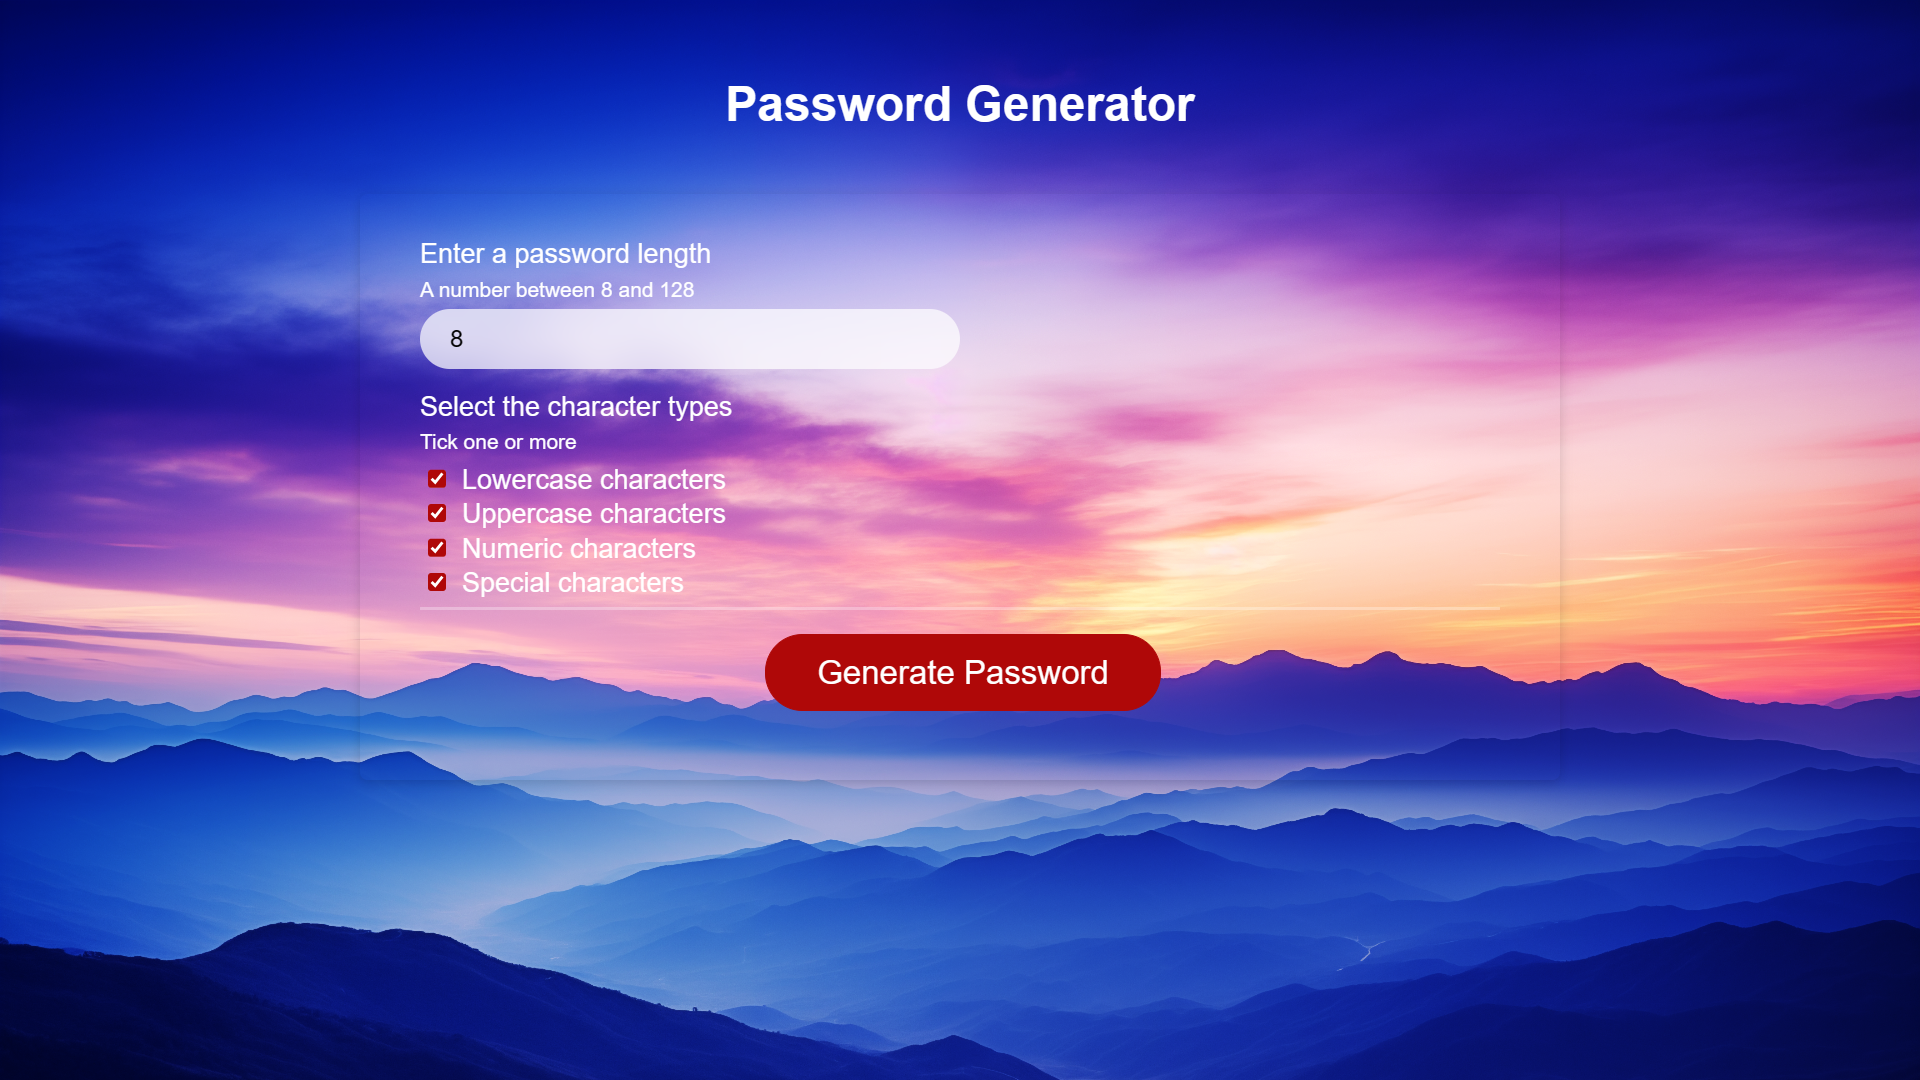
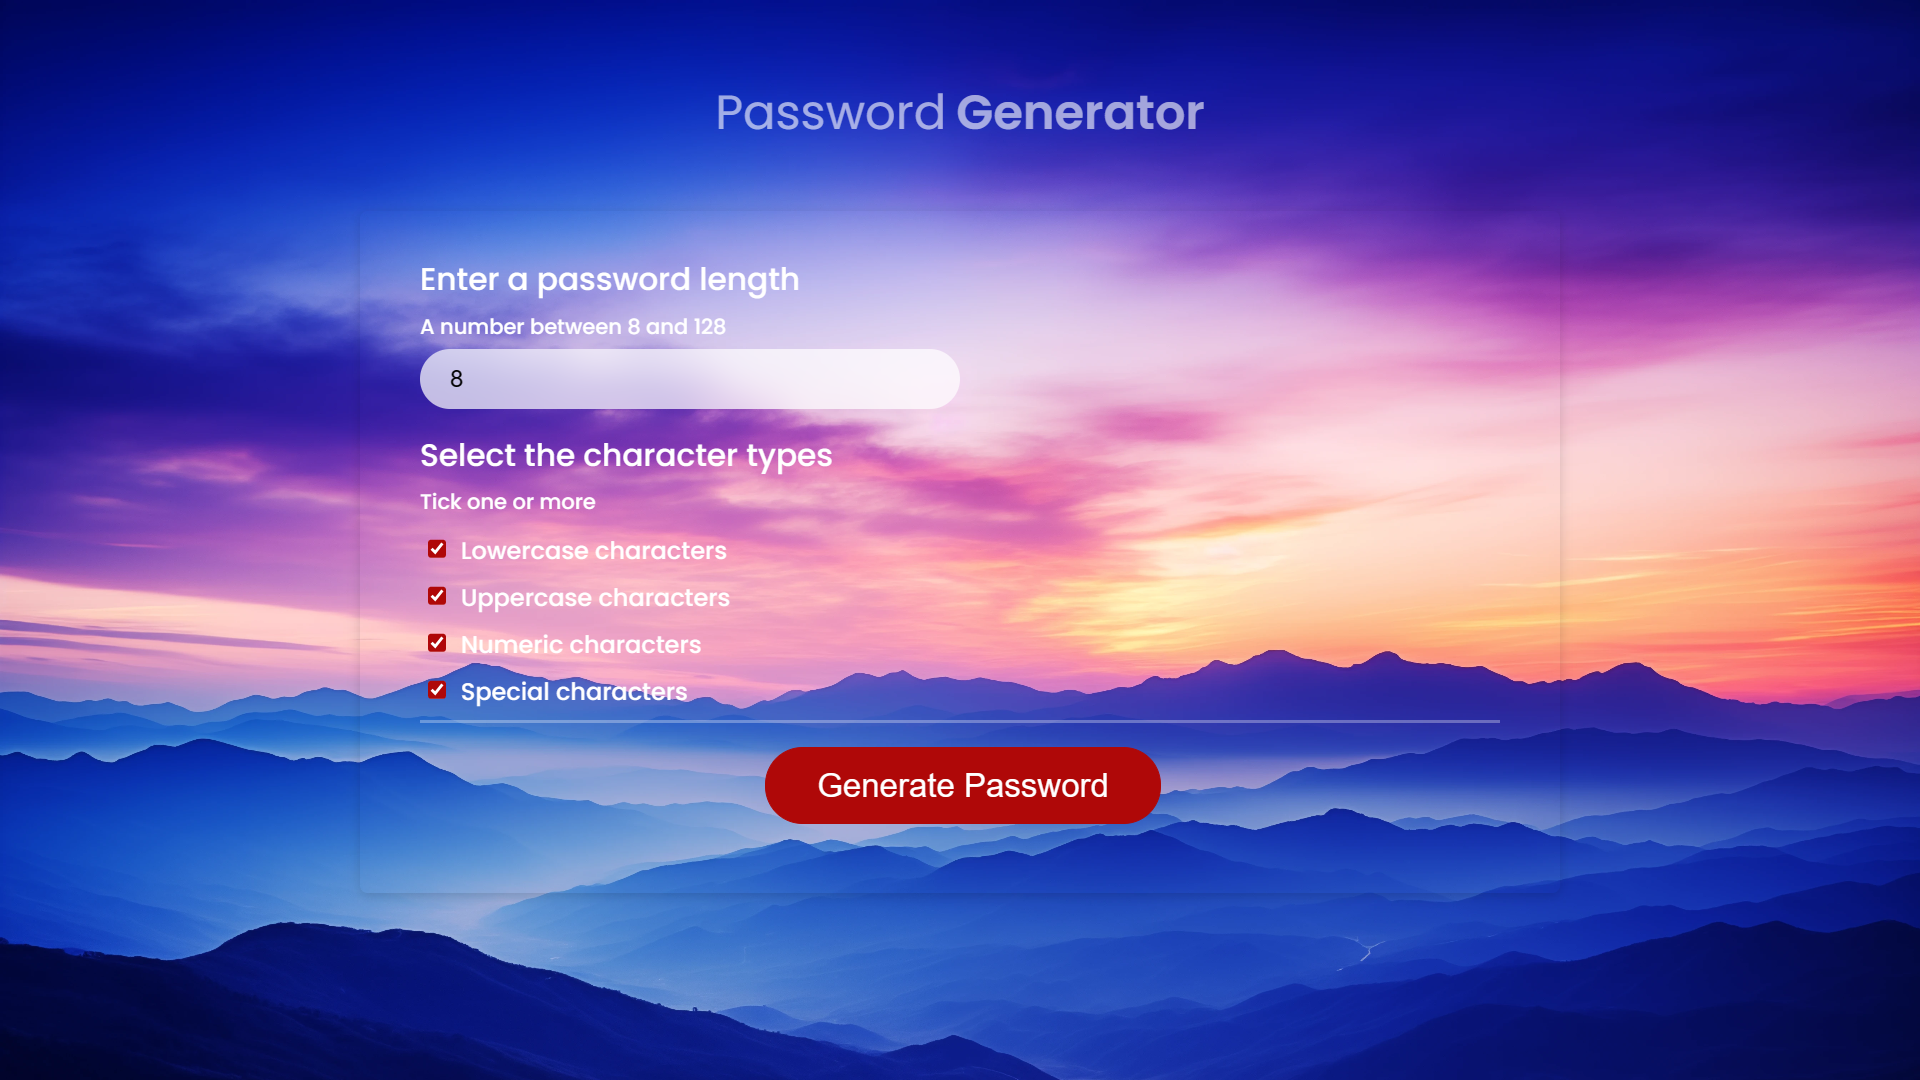
update font

Changed region(s): [[0.2188, 0.2139, 0.625, 0.7639], [0.375, 0.0611, 0.625, 0.1222]]

diff --git a/style.css b/style.css
@@ -10,16 +10,15 @@ body,
   height: 100%;
   margin: 0;
   padding: 0;
-
 }
 
 body {
-  font-family: sans-serif;
+  font-family: 'Poppins', sans-serif;
+  font-weight: 500;
   background-color: #f9fbfd;
-  background-image: url('./assets/sky07-contrast.png');
+  background-image: url('./assets/images/sky07-contrast.webp');
   background-repeat: no-repeat;
-  background-size: cover;
-  /* background-position: center; */
+  background-size: cover;  
 }
 
 .wrapper {
@@ -32,20 +31,24 @@ header {
   text-align: center;
   padding: 20px;
   padding-top: 0px;
-  /* color: hsl(206, 17%, 28%); */
-  color: white;
+  color: rgba(255, 255, 255, 0.6);
 }
 
+#thin{
+  font-weight:400;
+}
+#bold{
+  font-weight: 600;
+}
+
+
 .card {
-  /*background-color: hsl(0, 0%, 100%);*/
   background-color: transparent;
-  /* backdrop-filter: blur(10px); */
   border-radius: 5px;
   border-width: 1px;
   box-shadow: rgba(0, 0, 0, 0.15) 0px 2px 8px 0px;
-  /* color: hsl(206, 17%, 28%); */
   color: white;
-  font-size: 18px;
+  font-size: 1.3rem;
   margin: 0 auto;
   max-width: 800px;
   padding: 30px 40px;
@@ -80,8 +83,12 @@ header {
 }
 
 .tickboxes {
-  accent-color: hsl(360, 91%, 36%);;
+  accent-color: hsl(360, 91%, 36%);
   margin: 5px;
+}
+
+.tickbox-text{
+  font-size: 1rem;
 }
 
 #number-alert, #character-alert {
@@ -92,7 +99,6 @@ header {
   font-size: 12px;
   border-radius: 50px;
   background-color: rgba(255,255,255, 0.7);
-  
 }
 
 .card-header::after {
@@ -127,7 +133,7 @@ header {
 }
 
 .btn {
-  border: none;
+  border: 1px solid hsl(360, 91%, 36%);;
   background-color: hsl(360, 91%, 36%);
   border-radius: 25px;
   box-shadow: rgba(0, 0, 0, 0.1) 0px 1px 6px 0px rgba(0, 0, 0, 0.2) 0px 1px 1px
@@ -140,6 +146,12 @@ header {
   padding: 14px 34px;
   text-align: center;
   cursor: pointer;
+}
+
+.btn:hover{
+  background-color: transparent;
+  backdrop-filter: blur(5px);
+  border: 1px solid white;
 }
 
 button[disabled] {
@@ -163,11 +175,11 @@ button[disabled] {
   padding-left: 15px;
   padding-right: 15px;
   padding-bottom: 85px;
-  font-size: 2rem;
+  font-size: 1.7rem;
+  font-weight: 800;
   text-align: center;
   margin-top: 10px;
   margin-bottom: 10px;
-  /*border: 2px dashed #c0c7cf;*/
   border-radius: 6px;
   resize: none;
   overflow: hidden;
@@ -176,6 +188,10 @@ button[disabled] {
 }
 
 @media (max-width: 690px) {
+  body {
+    background-size: auto;
+    background-position: center;
+  }
   .btn {
     font-size: 1rem;
     margin: 16px 0px 0px 0px;

diff --git a/index.html b/index.html
@@ -5,12 +5,16 @@
     <meta name="viewport" content="width=device-width, initial-scale=1.0" />
     <meta http-equiv="X-UA-Compatible" content="ie=edge" />
     <title>Password Generator</title>
+    <link rel="preconnect" href="https://fonts.googleapis.com">
+<link rel="preconnect" href="https://fonts.gstatic.com" crossorigin>
+<link href="https://fonts.googleapis.com/css2?family=Poppins:wght@300;400;500;600;700;900&display=swap" rel="stylesheet">
+<link href="https://fonts.googleapis.com/css2?family=Roboto:wght@400;500;700;900&display=swap" rel="stylesheet">
     <link rel="stylesheet" href="style.css" />
   </head>
   <body>
     <div class="wrapper">
       <header>
-        <h1>Password Generator</h1>
+        <h1><span id="thin">Password</span> <span id="bold">Generator</span></h1>
       </header>
       <div class="card">
         <div class="card-header card-hidden">
@@ -33,10 +37,10 @@
             <div id="number-alert-div"><span id="number-alert">Enter a number between 8 and 128.</span></div>
             <div id="form-checkbox-label">Select the character types </div>
             <div class="small-text">Tick one or more</div>
-            <input type ="checkbox" id="value1" class="tickboxes"><label for="value1" class="tickbox-text"> lowercase characters</label><br/>
-            <input type ="checkbox" id="value2" class="tickboxes"><label for="value2" class="tickbox-text"> uppercase characters</label><br/>
-            <input type ="checkbox" id="value3" class="tickboxes"><label for="value3" class="tickbox-text"> numeric characters</label><br/>
-            <input type ="checkbox" id="value4" class="tickboxes"><label for="value4" class="tickbox-text"> special characters</label><br/>
+            <input type ="checkbox" id="value1" class="tickboxes"><label for="value1" class="tickbox-text"> Lowercase characters</label><br/>
+            <input type ="checkbox" id="value2" class="tickboxes"><label for="value2" class="tickbox-text"> Uppercase characters</label><br/>
+            <input type ="checkbox" id="value3" class="tickboxes"><label for="value3" class="tickbox-text"> Numeric characters</label><br/>
+            <input type ="checkbox" id="value4" class="tickboxes"><label for="value4" class="tickbox-text"> Special characters</label><br/>
             <div id="character-alert-div"><span id="character-alert">Select at least one character type.</span></div>
           </form>
         </div>
